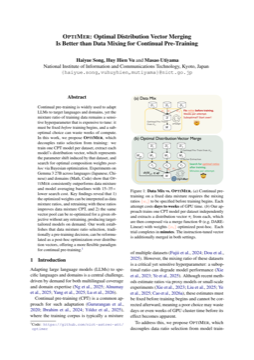
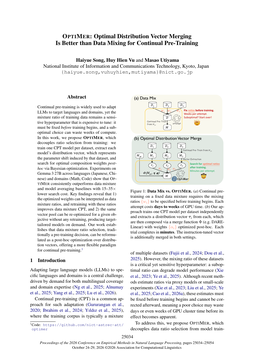
Cite the EMNLP 2026 proceedings version of OptiMer
Link the Paper card to the ACL Anthology, regenerate its thumbnail from
the proceedings PDF, and replace the arXiv citation with the official
three-author Anthology BibTeX.

diff --git a/docs/index.html b/docs/index.html
@@ -57,9 +57,9 @@
 <section class="section links-section">
   <div class="container is-max-desktop">
     <div class="thumb-links">
-      <a class="thumb-link" href="https://arxiv.org/abs/2603.28858" target="_blank" rel="noopener">
-        <img src="./static/images/thumb_paper.png" alt="arXiv preprint thumbnail">
-        <span>arXiv</span>
+      <a class="thumb-link" href="https://aclanthology.org/2026.emnlp-main.1090/" target="_blank" rel="noopener">
+        <img src="./static/images/thumb_paper.png?v=2" alt="Paper thumbnail">
+        <span>Paper</span>
       </a>
       <a class="thumb-link" href="https://github.com/nict-astrec-att/optimer" target="_blank" rel="noopener">
         <img src="./static/images/thumb_code.png?v=2" alt="Source code thumbnail">
@@ -305,25 +305,35 @@
 <section class="section" id="cite">
   <div class="container is-max-desktop">
     <h2 class="title is-3">How to Cite</h2>
-    <p class="figure-lead">
-      We will update the citation after the EMNLP 2026 proceedings are public.
-    </p>
     <div class="cite-card">
       <h3 class="cite-card-header">bibliography</h3>
       <div class="cite-card-block">
         <p class="bib-entry clickselect">
-          Haiyue Song and Masao Utiyama. &ldquo;<em>OptiMer: Optimal Distribution Vector Merging Is
-          Better than Data Mixing for Continual Pre-Training.</em>&rdquo; arXiv preprint
-          arXiv:2603.28858 (2026).
+          Haiyue Song, Huy Hien Vu, and Masao Utiyama. 2026. OptiMer: Optimal Distribution Vector
+          Merging Is Better than Data Mixing for Continual Pre-Training. In <em>Proceedings of the
+          2026 Conference on Empirical Methods in Natural Language Processing</em>, pages
+          25034&ndash;25054, Budapest, Hungary. Association for Computational Linguistics.
         </p>
       </div>
       <h3 class="cite-card-header">bibtex</h3>
       <div class="cite-card-block">
-        <pre class="bib-code clickselect"><code>@misc{2603.28858,
-  Author = {Haiyue Song and Masao Utiyama},
-  Title = {OptiMer: Optimal Distribution Vector Merging Is Better than Data Mixing for Continual Pre-Training},
-  Year = {2026},
-  Eprint = {arXiv:2603.28858},
+        <pre class="bib-code clickselect"><code>@inproceedings{song-etal-2026-optimer,
+    title = "{O}pti{M}er: Optimal Distribution Vector Merging Is Better than Data Mixing for Continual Pre-Training",
+    author = "Song, Haiyue  and
+      Vu, Huy Hien  and
+      Utiyama, Masao",
+    editor = "Lee, Hung-Yi  and
+      Dev, Sunipa  and
+      Li, Jessy  and
+      Elliott, Desmond",
+    booktitle = "Proceedings of the 2026 Conference on Empirical Methods in Natural Language Processing",
+    month = oct,
+    year = "2026",
+    address = "Budapest, Hungary",
+    publisher = "Association for Computational Linguistics",
+    url = "https://aclanthology.org/2026.emnlp-main.1090/",
+    pages = "25034--25054",
+    ISBN = "979-8-89176-459-0"
 }</code></pre>
       </div>
     </div>
